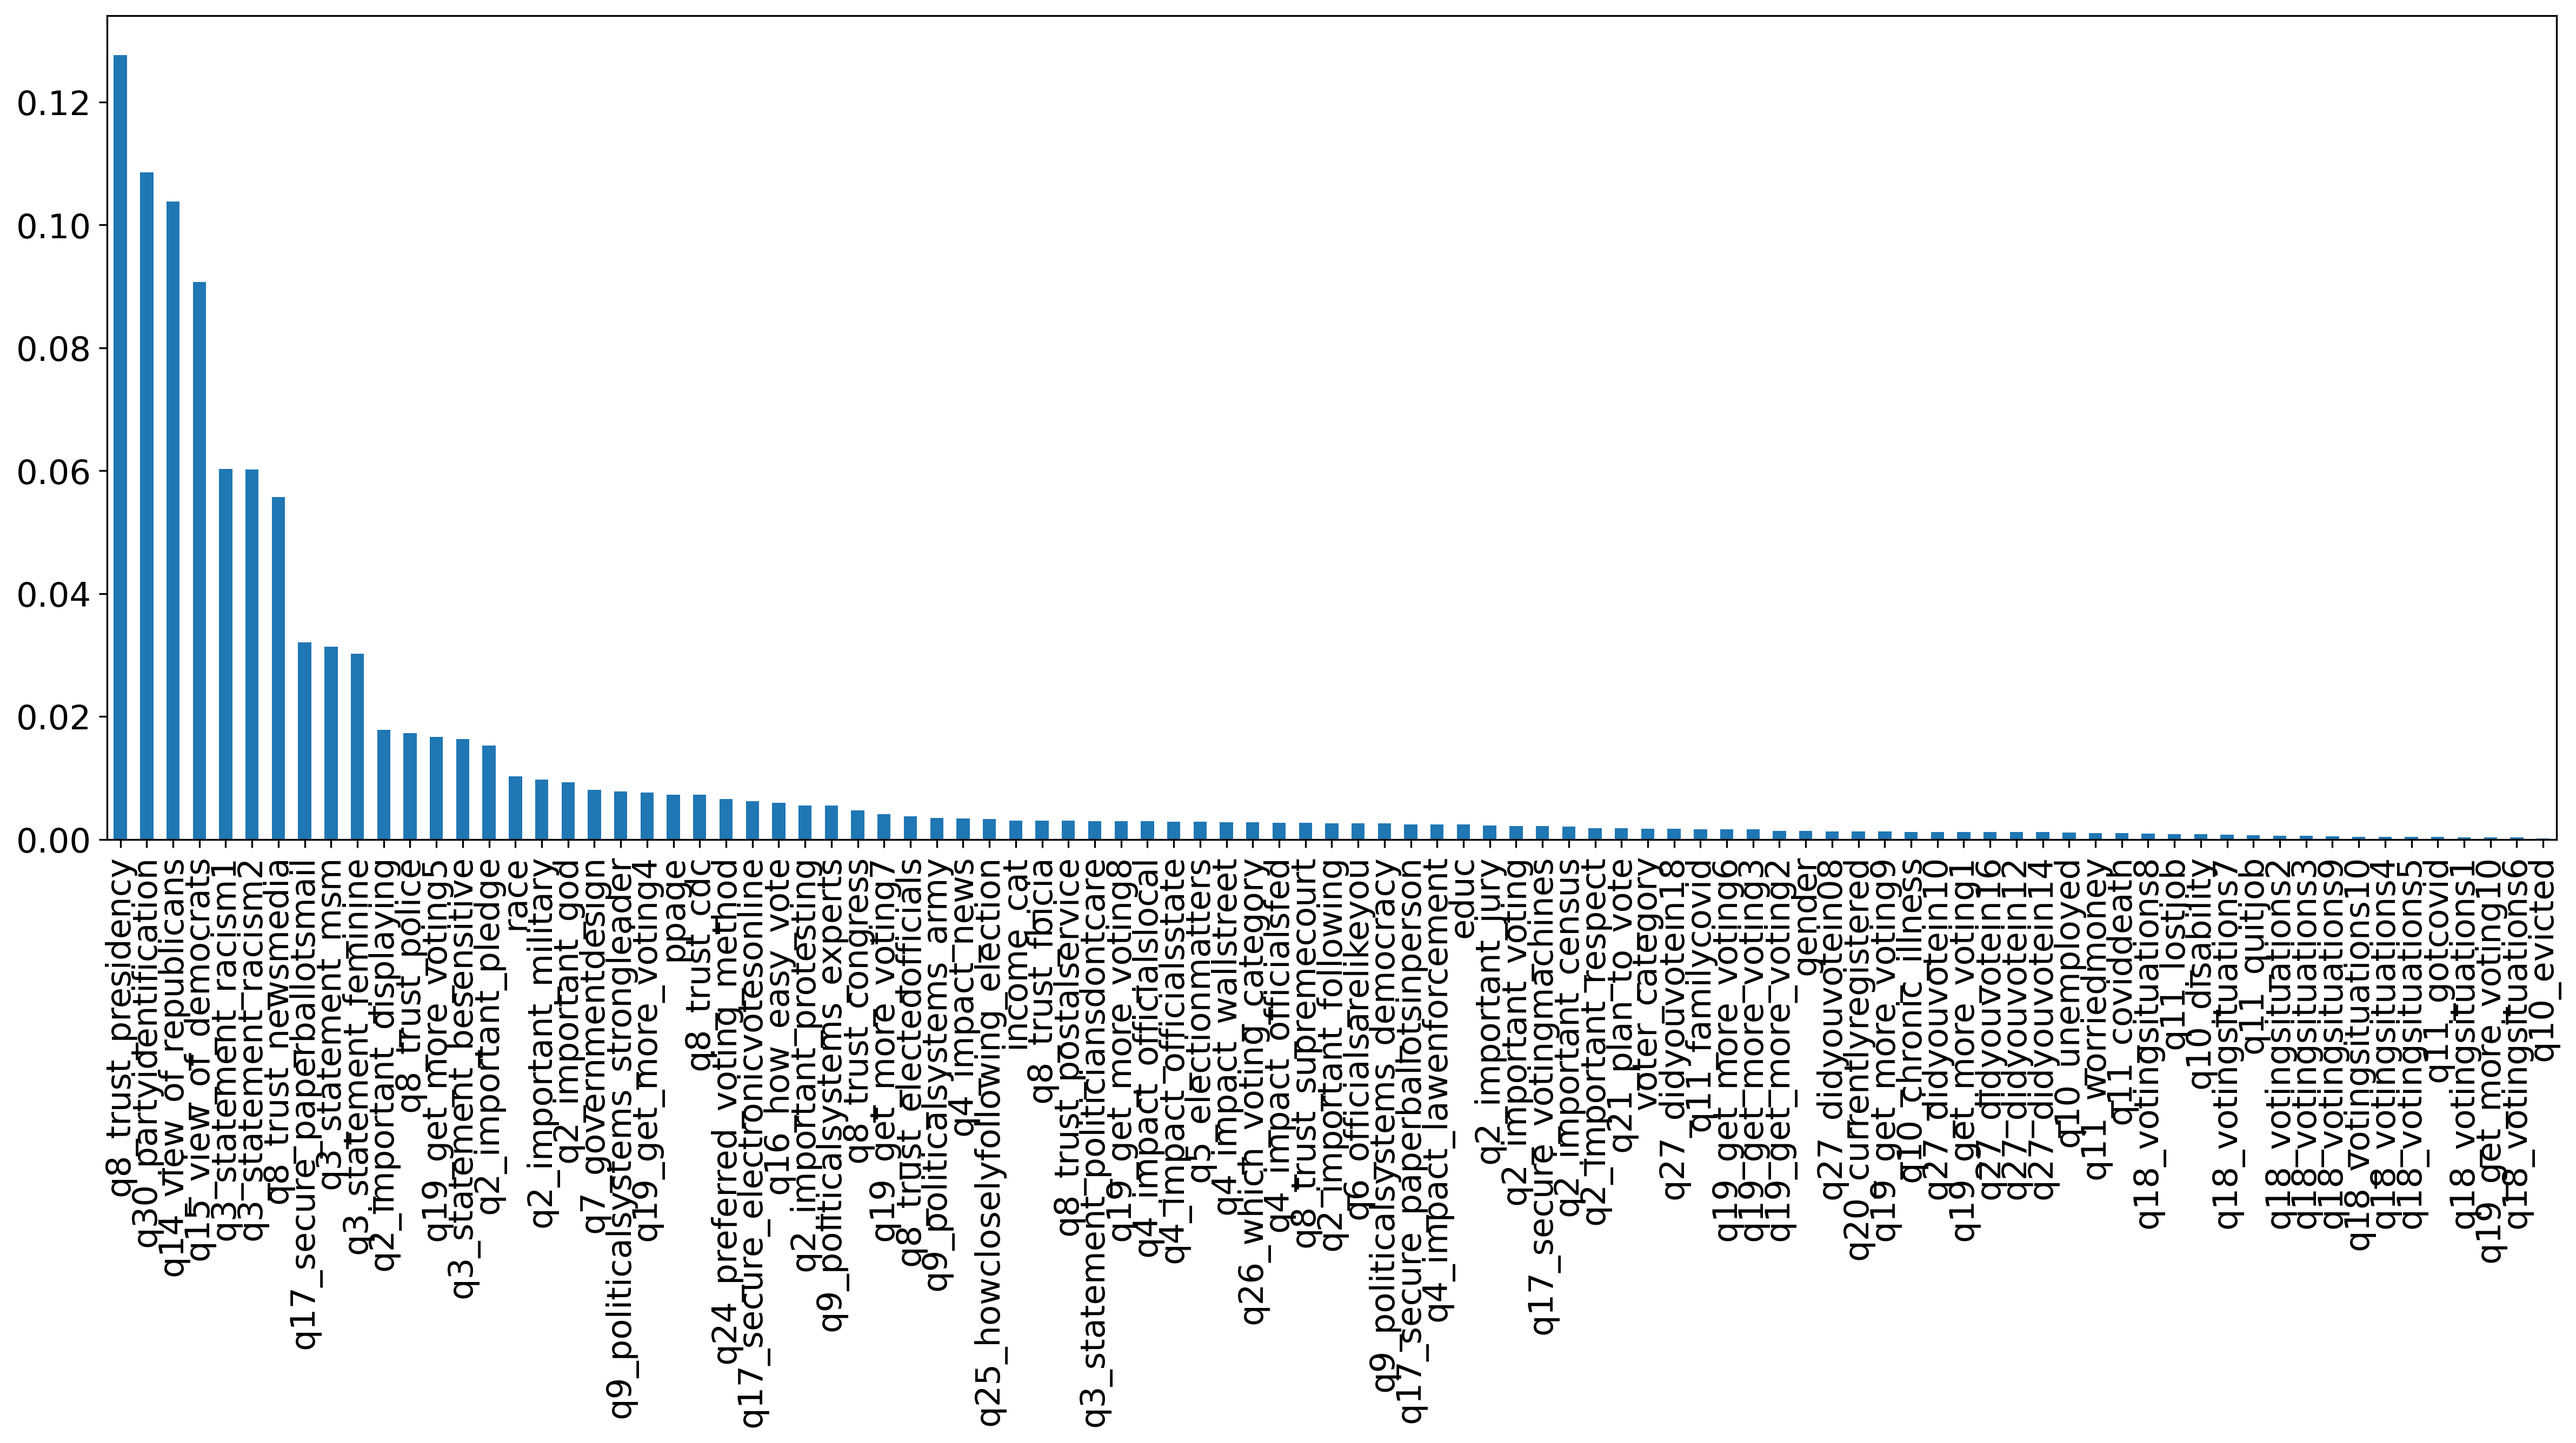
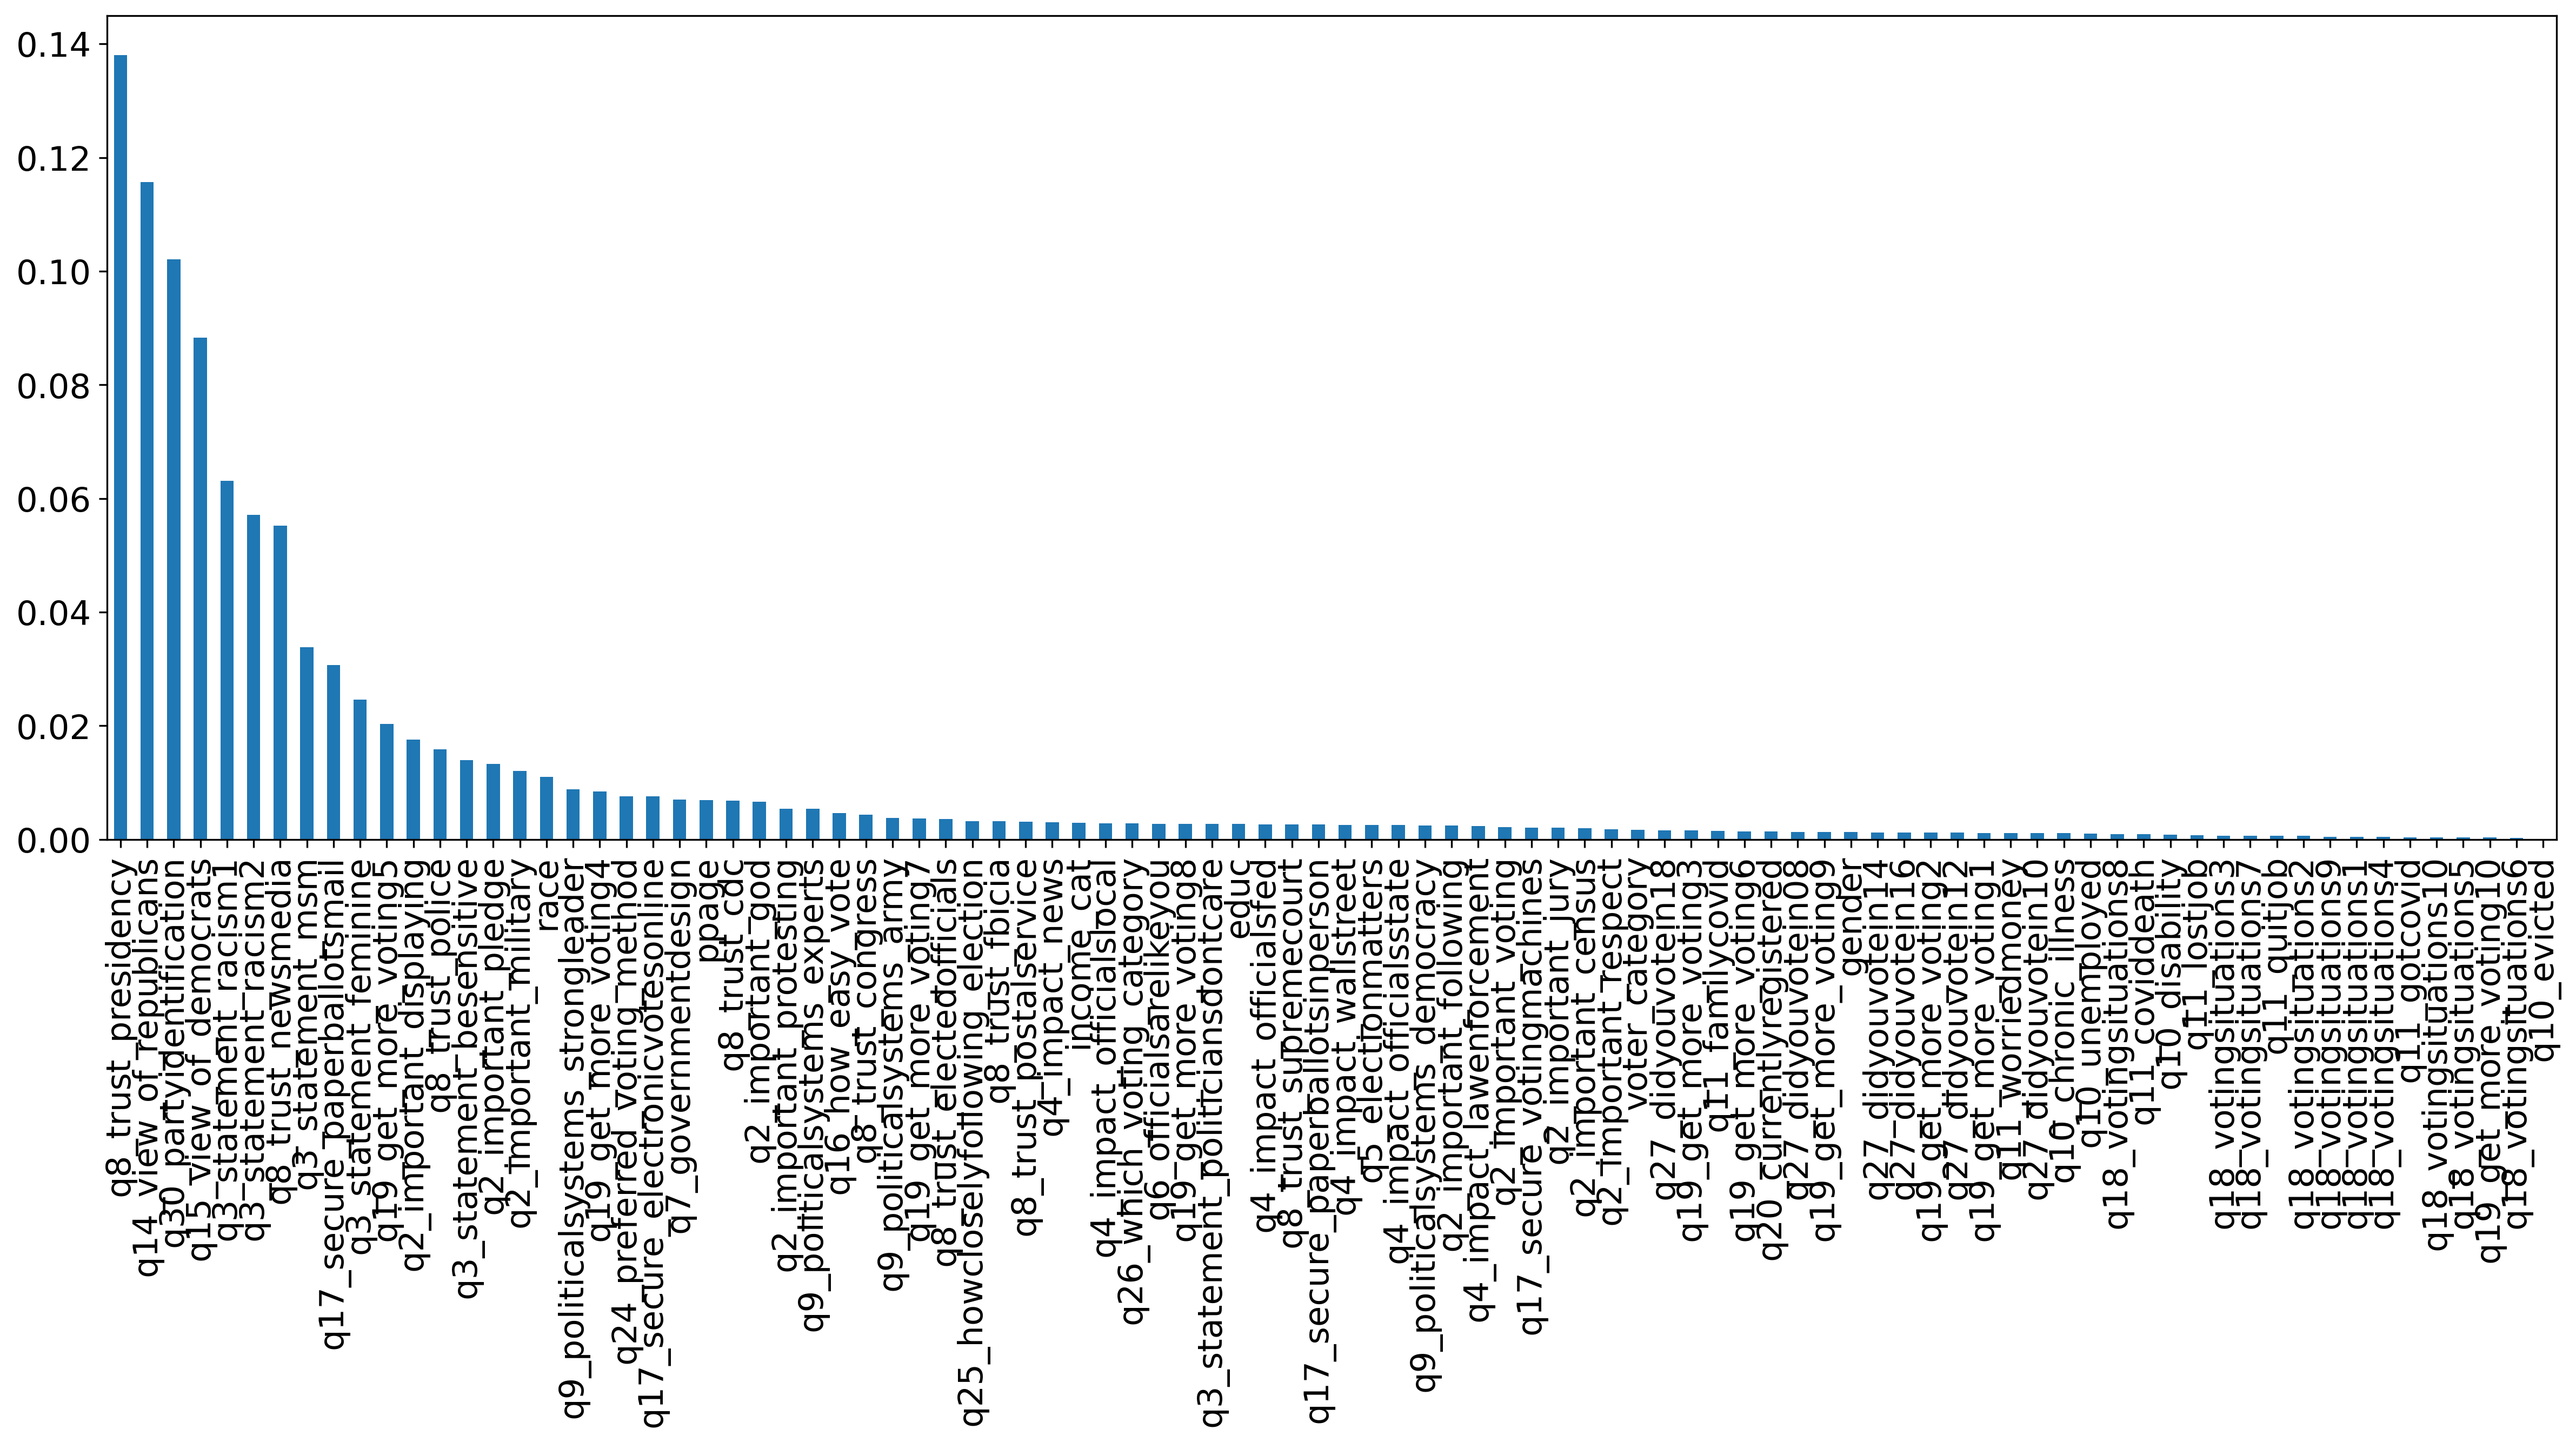
Update model code and graphs. Create new file for final function.

diff --git a/Code/eda_feature_selection_dp.py b/Code/eda_feature_selection_dp.py
@@ -9,6 +9,7 @@ FiveThirtyEight Non-Voters Dataset
 ##### Import packages and data #####
 
 import pandas as pd
+import numpy as np
 import os
 from pathlib import Path
 import seaborn as sns
@@ -25,7 +26,8 @@ df = pd.read_csv(dir+'\\'+'nonvoters_data.csv', sep=',', header=0)
 
 # Change directory for graphing purposes
 graphing_dir = os.path.join(dir, 'Graphs')
-os.mkdir(graphing_dir)
+if not os.path.exists(graphing_dir):
+    os.mkdir(graphing_dir)
 os.chdir(graphing_dir)
 
 ##### Exploratory data analysis ##### --------------------------------------------------------------------------
@@ -100,9 +102,58 @@ df.drop(['q1_uscitizen','q22_whynotvoting_2020',
               'q31_republicantype',
               'q32_democratictype',
               'q33_closertowhichparty',
+         'q21_plan_to_vote',
+         'q22_whynotvoting_2020',
          'RespId',
          'weight'
          ], axis=1, inplace=True)
+
+
+
+# Replace "refused" answers (value of -1) with the demographic average for each group
+# Step 1 - Replace -1 in certain columns with NaN
+# Step 2 - Replace NaN with demographic average using groupby
+
+# Rename columns to descriptive names
+replace_neg_one = [
+              'q2_important_voting','q2_important_jury','q2_important_following','q2_important_displaying','q2_important_census',
+              'q2_important_pledge','q2_important_military','q2_important_respect','q2_important_god','q2_important_protesting',
+              'q3_statement_racism1','q3_statement_racism2','q3_statement_feminine',
+              'q3_statement_msm','q3_statement_politiciansdontcare','q3_statement_besensitive',
+              'q4_impact_officialsfed','q4_impact_officialsstate','q4_impact_officialslocal',
+              'q4_impact_news','q4_impact_wallstreet','q4_impact_lawenforcement',
+              'q5_electionmatters',
+              'q6_officialsarelikeyou',
+              'q7_governmentdesign',
+              'q8_trust_presidency','q8_trust_congress','q8_trust_supremecourt','q8_trust_cdc','q8_trust_electedofficials',
+              'q8_trust_fbicia','q8_trust_newsmedia','q8_trust_police','q8_trust_postalservice',
+              'q9_politicalsystems_democracy','q9_politicalsystems_experts','q9_politicalsystems_strongleader','q9_politicalsystems_army',
+              'q10_disability','q10_chronic_illness','q10_unemployed','q10_evicted',
+              'q11_lostjob','q11_gotcovid','q11_familycovid',
+              'q11_coviddeath','q11_worriedmoney','q11_quitjob',
+              'q14_view_of_republicans',
+              'q15_view_of_democrats',
+              'q16_how_easy_vote',
+              'q17_secure_votingmachines','q17_secure_paperballotsinperson','q17_secure_paperballotsmail','q17_secure_electronicvotesonline',
+              'q18_votingsituations1','q18_votingsituations2','q18_votingsituations3','q18_votingsituations4','q18_votingsituations5',
+              'q18_votingsituations6','q18_votingsituations7','q18_votingsituations8','q18_votingsituations9','q18_votingsituations10',
+              'q20_currentlyregistered',
+              'q24_preferred_voting_method',
+              'q25_howcloselyfollowing_election',
+              'q26_which_voting_category',
+              'q27_didyouvotein18','q27_didyouvotein16','q27_didyouvotein14',
+              'q27_didyouvotein12','q27_didyouvotein10','q27_didyouvotein08',
+              'q30_partyidentification'
+              ]
+
+
+df[replace_neg_one] = df[replace_neg_one].replace(-1, np.nan)
+df[replace_neg_one] = df[replace_neg_one].replace(-1.0, np.nan)
+
+# Replace NaN with categorical mean
+for x in replace_neg_one:
+    df[x] = df[x].fillna(df.groupby(by=['educ', 'race', 'gender', 'income_cat'])[x].transform('mean'))
+
 
 # Transform non-numeric categorical variables into numeric for model processing
 le = LabelEncoder()
@@ -139,8 +190,9 @@ y_pred = clf.predict(X_test)
 y_pred_probs = clf.predict_proba(X_test)
 
 # Get accuracy and ROC values
-roc_auc_score(y_test, y_pred_probs[:, 1]) # 0.9954010422906433
-accuracy_score(y_test, y_pred) # 0.9726729291204099
+roc_auc_full = roc_auc_score(y_test, y_pred_probs[:, 1])
+accuracy_full = accuracy_score(y_test, y_pred)
+print(f'The full model AUC is {roc_auc_full} and the accuracy is {accuracy_full}.')
 
 # Plot ROC curve
 # More area under the curve indicates the model has skill in finding true positives and avoiding false positives
@@ -193,8 +245,9 @@ y_slim_pred = clf2.predict(X_slim_test)
 y_slim_pred_probs = clf2.predict_proba(X_slim_test)
 
 # Get accuracy and ROC values
-roc_auc_score(y_slim_test, y_slim_pred_probs[:, 1]) # 0.9839779380463819
-accuracy_score(y_slim_test, y_slim_pred) # 0.932536293766012
+roc_auc_slim = roc_auc_score(y_slim_test, y_slim_pred_probs[:, 1])
+accuracy_slim = accuracy_score(y_slim_test, y_slim_pred)
+print(f'The slim model AUC is {roc_auc_slim} and the accuracy is {accuracy_slim}.')
 
 # Plot ROC curve
 plot_roc_curve(clf2, X_slim_test, y_slim_test)
@@ -209,6 +262,7 @@ feat_imp2.plot(x='Features', y='Importance', kind='bar', figsize=(16, 9), rot=90
 plt.tight_layout()
 plt.savefig('feature_importances_slim_model.png', dpi=300, bbox_inches='tight')
 plt.show()
+
 
 ##### IGNORE CODE BELOW ##### --------------------------------------------------------------------------
 

diff --git a/Code/dp_model_for_ui.py b/Code/dp_model_for_ui.py
@@ -1,0 +1,95 @@
+'''
+
+#---------------------------------------------------------------------------------------------------------
+FiveThirtyEight Non-Voters Dataset
+#---------------------------------------------------------------------------------------------------------
+
+'''
+
+##### Import packages and data #####
+
+import pandas as pd
+import os
+from pathlib import Path
+import seaborn as sns
+import matplotlib.pyplot as plt
+from sklearn.model_selection import train_test_split
+from sklearn.ensemble import RandomForestClassifier
+from sklearn.preprocessing import LabelEncoder
+from sklearn.metrics import plot_roc_curve
+from sklearn.metrics import accuracy_score
+from sklearn.metrics import roc_auc_score
+
+dir = str(Path(os.getcwd()).parents[0])
+df = pd.read_csv(dir+'\\'+'nonvoters_data.csv', sep=',', header=0)
+
+
+##### Exploratory data analysis ##### --------------------------------------------------------------------------
+
+print(df['Q1'].value_counts())
+print(df['ppage'].value_counts())
+print(df['educ'].value_counts())
+print(df['race'].value_counts())
+print(df['gender'].value_counts())
+print(df['income_cat'].value_counts())
+print(df['voter_category'].value_counts())
+
+#### Data Pre-Processing to prepare for modeling ##### --------------------------------------------------------------------------
+
+# Rename columns to descriptive names
+df.columns = ['RespId', 'weight',
+              'q1_uscitizen',
+              'q2_important_voting','q2_important_jury','q2_important_following','q2_important_displaying','q2_important_census',
+              'q2_important_pledge','q2_important_military','q2_important_respect','q2_important_god','q2_important_protesting',
+              'q3_statement_racism1','q3_statement_racism2','q3_statement_feminine',
+              'q3_statement_msm','q3_statement_politiciansdontcare','q3_statement_besensitive',
+              'q4_impact_officialsfed','q4_impact_officialsstate','q4_impact_officialslocal',
+              'q4_impact_news','q4_impact_wallstreet','q4_impact_lawenforcement',
+              'q5_electionmatters',
+              'q6_officialsarelikeyou',
+              'q7_governmentdesign',
+              'q8_trust_presidency','q8_trust_congress','q8_trust_supremecourt','q8_trust_cdc','q8_trust_electedofficials',
+              'q8_trust_fbicia','q8_trust_newsmedia','q8_trust_police','q8_trust_postalservice',
+              'q9_politicalsystems_democracy','q9_politicalsystems_experts','q9_politicalsystems_strongleader','q9_politicalsystems_army',
+              'q10_disability','q10_chronic_illness','q10_unemployed','q10_evicted',
+              'q11_lostjob','q11_gotcovid','q11_familycovid',
+              'q11_coviddeath','q11_worriedmoney','q11_quitjob',
+              'q14_view_of_republicans',
+              'q15_view_of_democrats',
+              'q16_how_easy_vote',
+              'q17_secure_votingmachines','q17_secure_paperballotsinperson','q17_secure_paperballotsmail','q17_secure_electronicvotesonline',
+              'q18_votingsituations1','q18_votingsituations2','q18_votingsituations3','q18_votingsituations4','q18_votingsituations5',
+              'q18_votingsituations6','q18_votingsituations7','q18_votingsituations8','q18_votingsituations9','q18_votingsituations10',
+              'q19_get_more_voting1','q19_get_more_voting2','q19_get_more_voting3','q19_get_more_voting4','q19_get_more_voting5',
+              'q19_get_more_voting6','q19_get_more_voting7','q19_get_more_voting8','q19_get_more_voting9','q19_get_more_voting10',
+              'q20_currentlyregistered',
+              'q21_plan_to_vote',
+              'q22_whynotvoting_2020',
+              'q23_which_candidate_supporting',
+              'q24_preferred_voting_method',
+              'q25_howcloselyfollowing_election',
+              'q26_which_voting_category',
+              'q27_didyouvotein18','q27_didyouvotein16','q27_didyouvotein14',
+              'q27_didyouvotein12','q27_didyouvotein10','q27_didyouvotein08',
+              'q28_whydidyouvote_past1','q28_whydidyouvote_past2','q28_whydidyouvote_past3','q28_whydidyouvote_past4',
+              'q28_whydidyouvote_past5','q28_whydidyouvote_past6','q28_whydidyouvote_past7','q28_whydidyouvote_past8',
+              'q29_whydidyounotvote_past1','q29_whydidyounotvote_past2','q29_whydidyounotvote_past3','q29_whydidyounotvote_past4','q29_whydidyounotvote_past5',
+              'q29_whydidyounotvote_past6','q29_whydidyounotvote_past7','q29_whydidyounotvote_past8','q29_whydidyounotvote_past9','q29_whydidyounotvote_past10',
+              'q30_partyidentification',
+              'q31_republicantype',
+              'q32_democratictype',
+              'q33_closertowhichparty',
+              'ppage', 'educ', 'race', 'gender', 'income_cat', 'voter_category'
+              ]
+
+
+df[df == -1].count()
+
+# Replace -1 values with mean for their demographic
+for x in df.columns:
+    print(x, 'values are')
+    print(df[x].value_counts(dropna=False))
+
+# Write a function that takes
+# X, y, percent test in train-test, number of features in model
+# Return model accuracy metrics, confusion matrix, feature importance, roc curve
